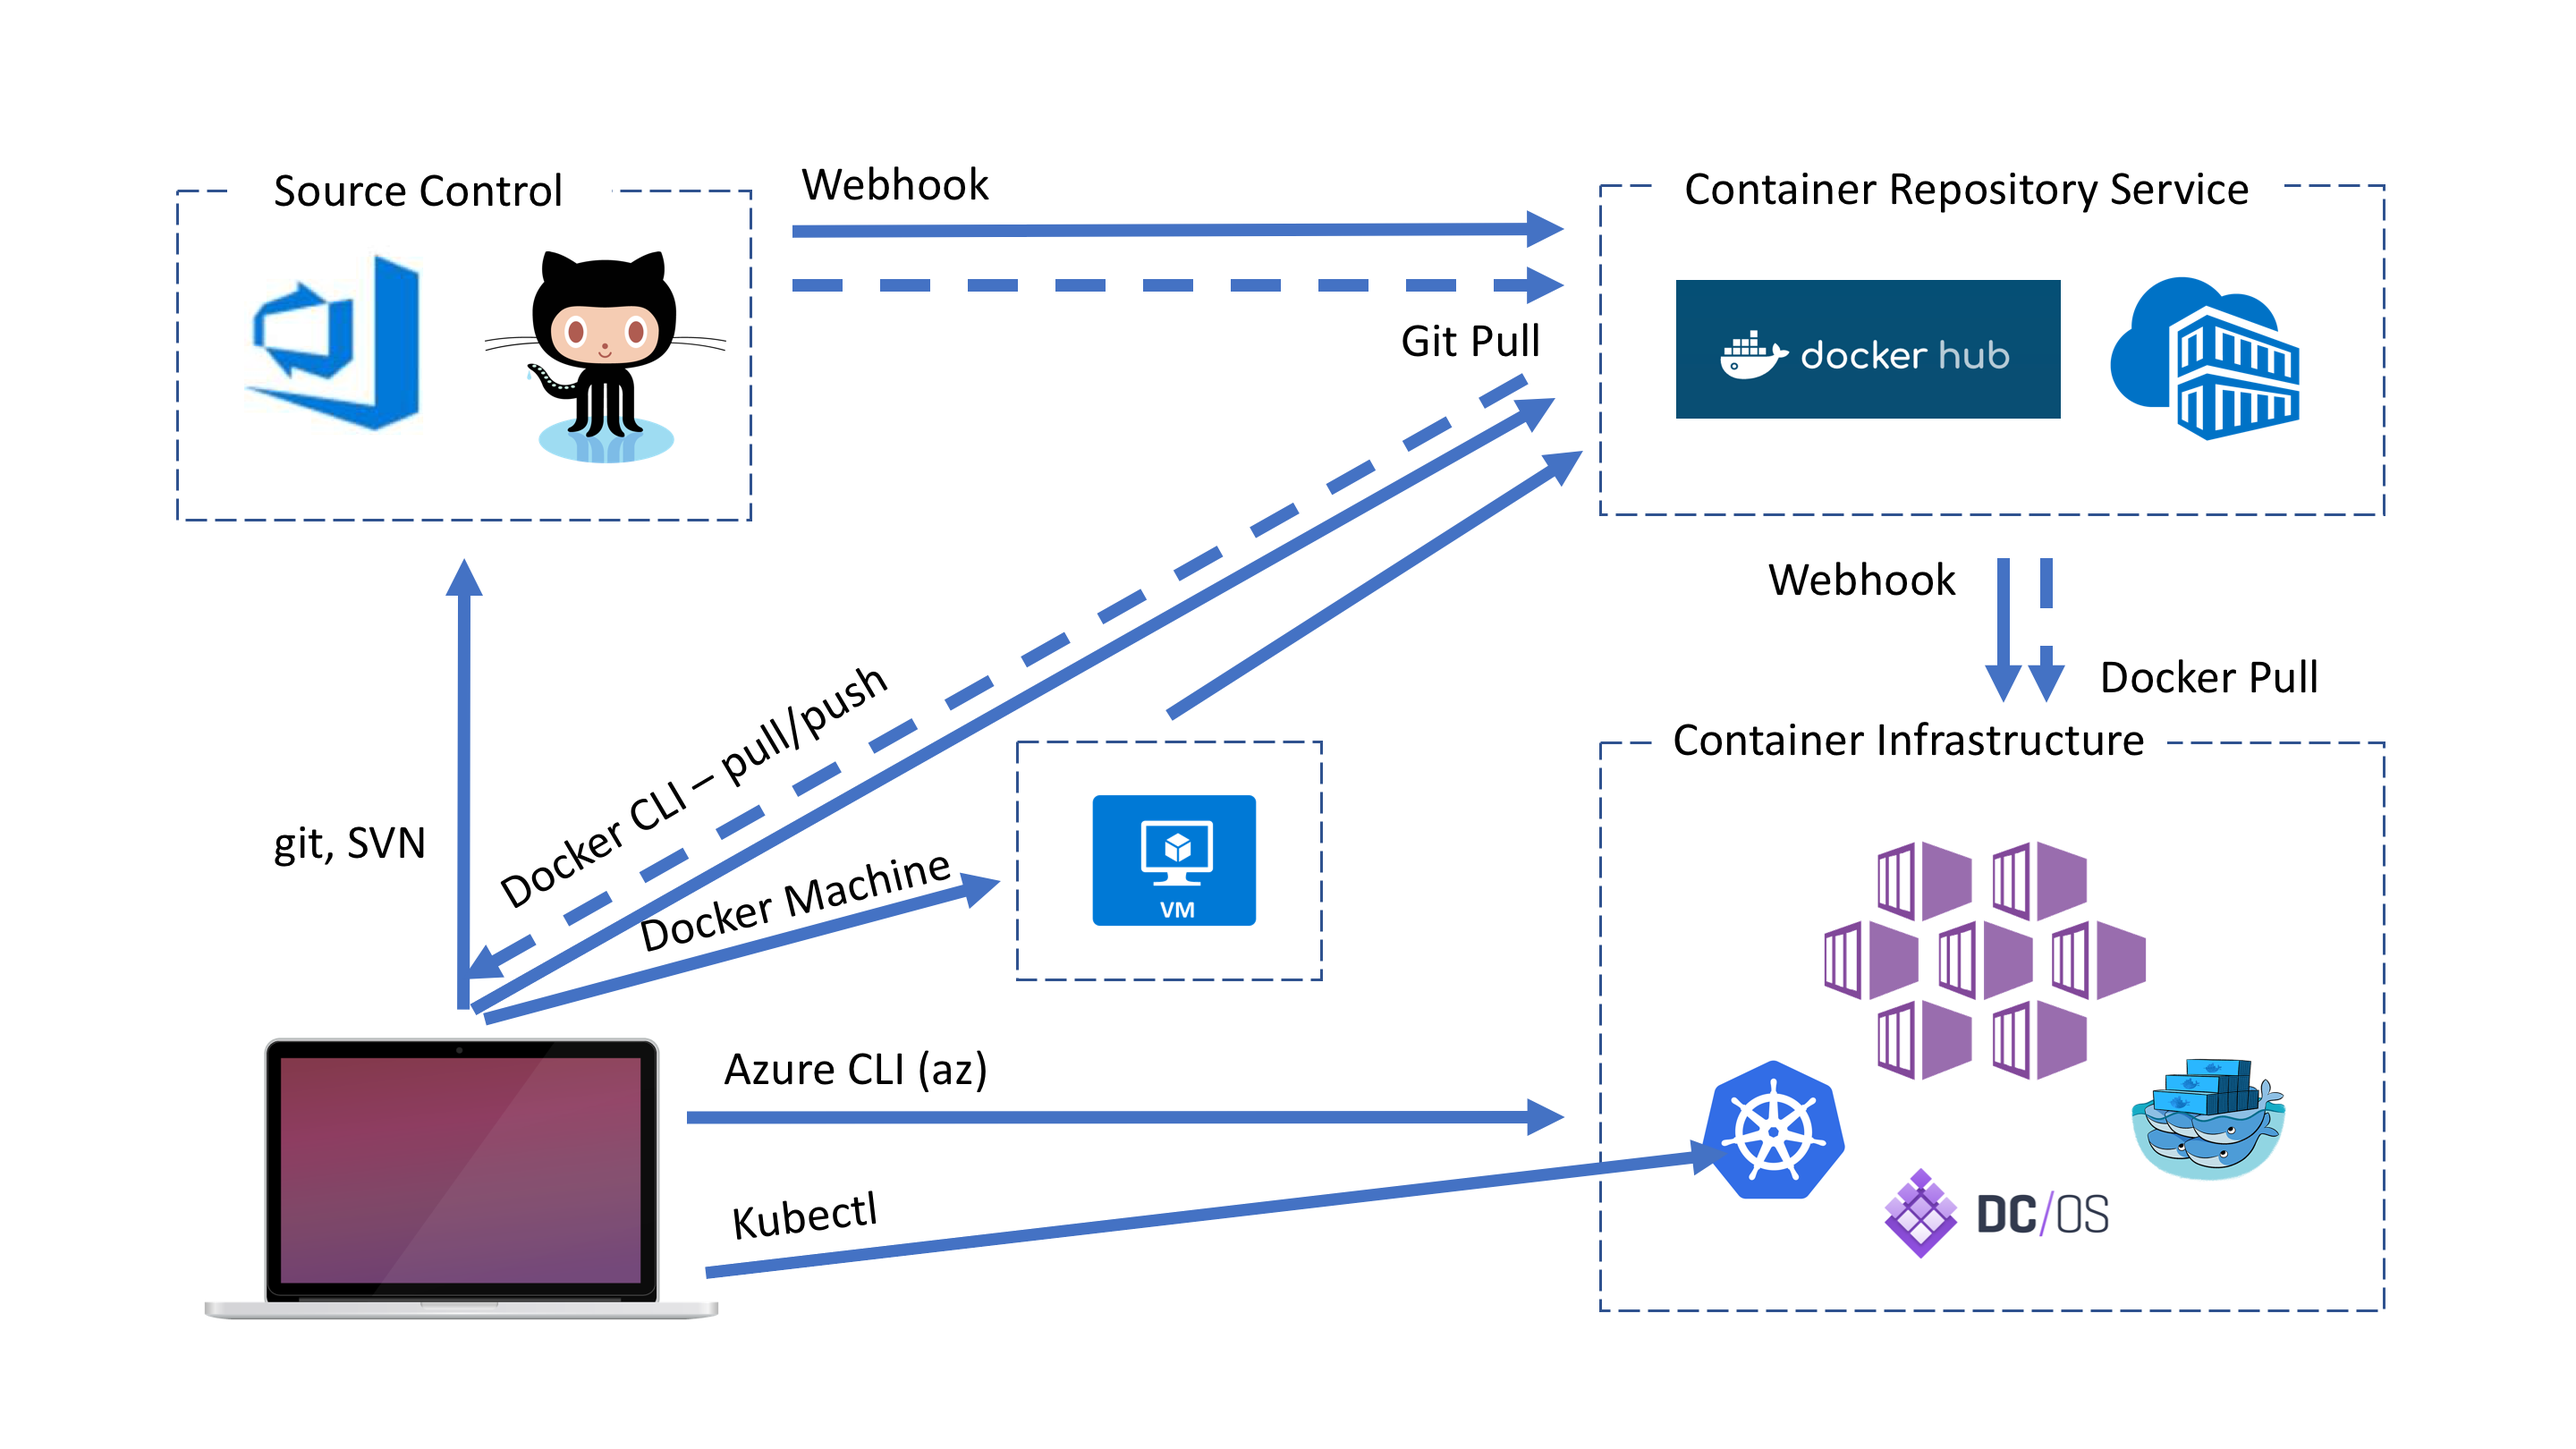
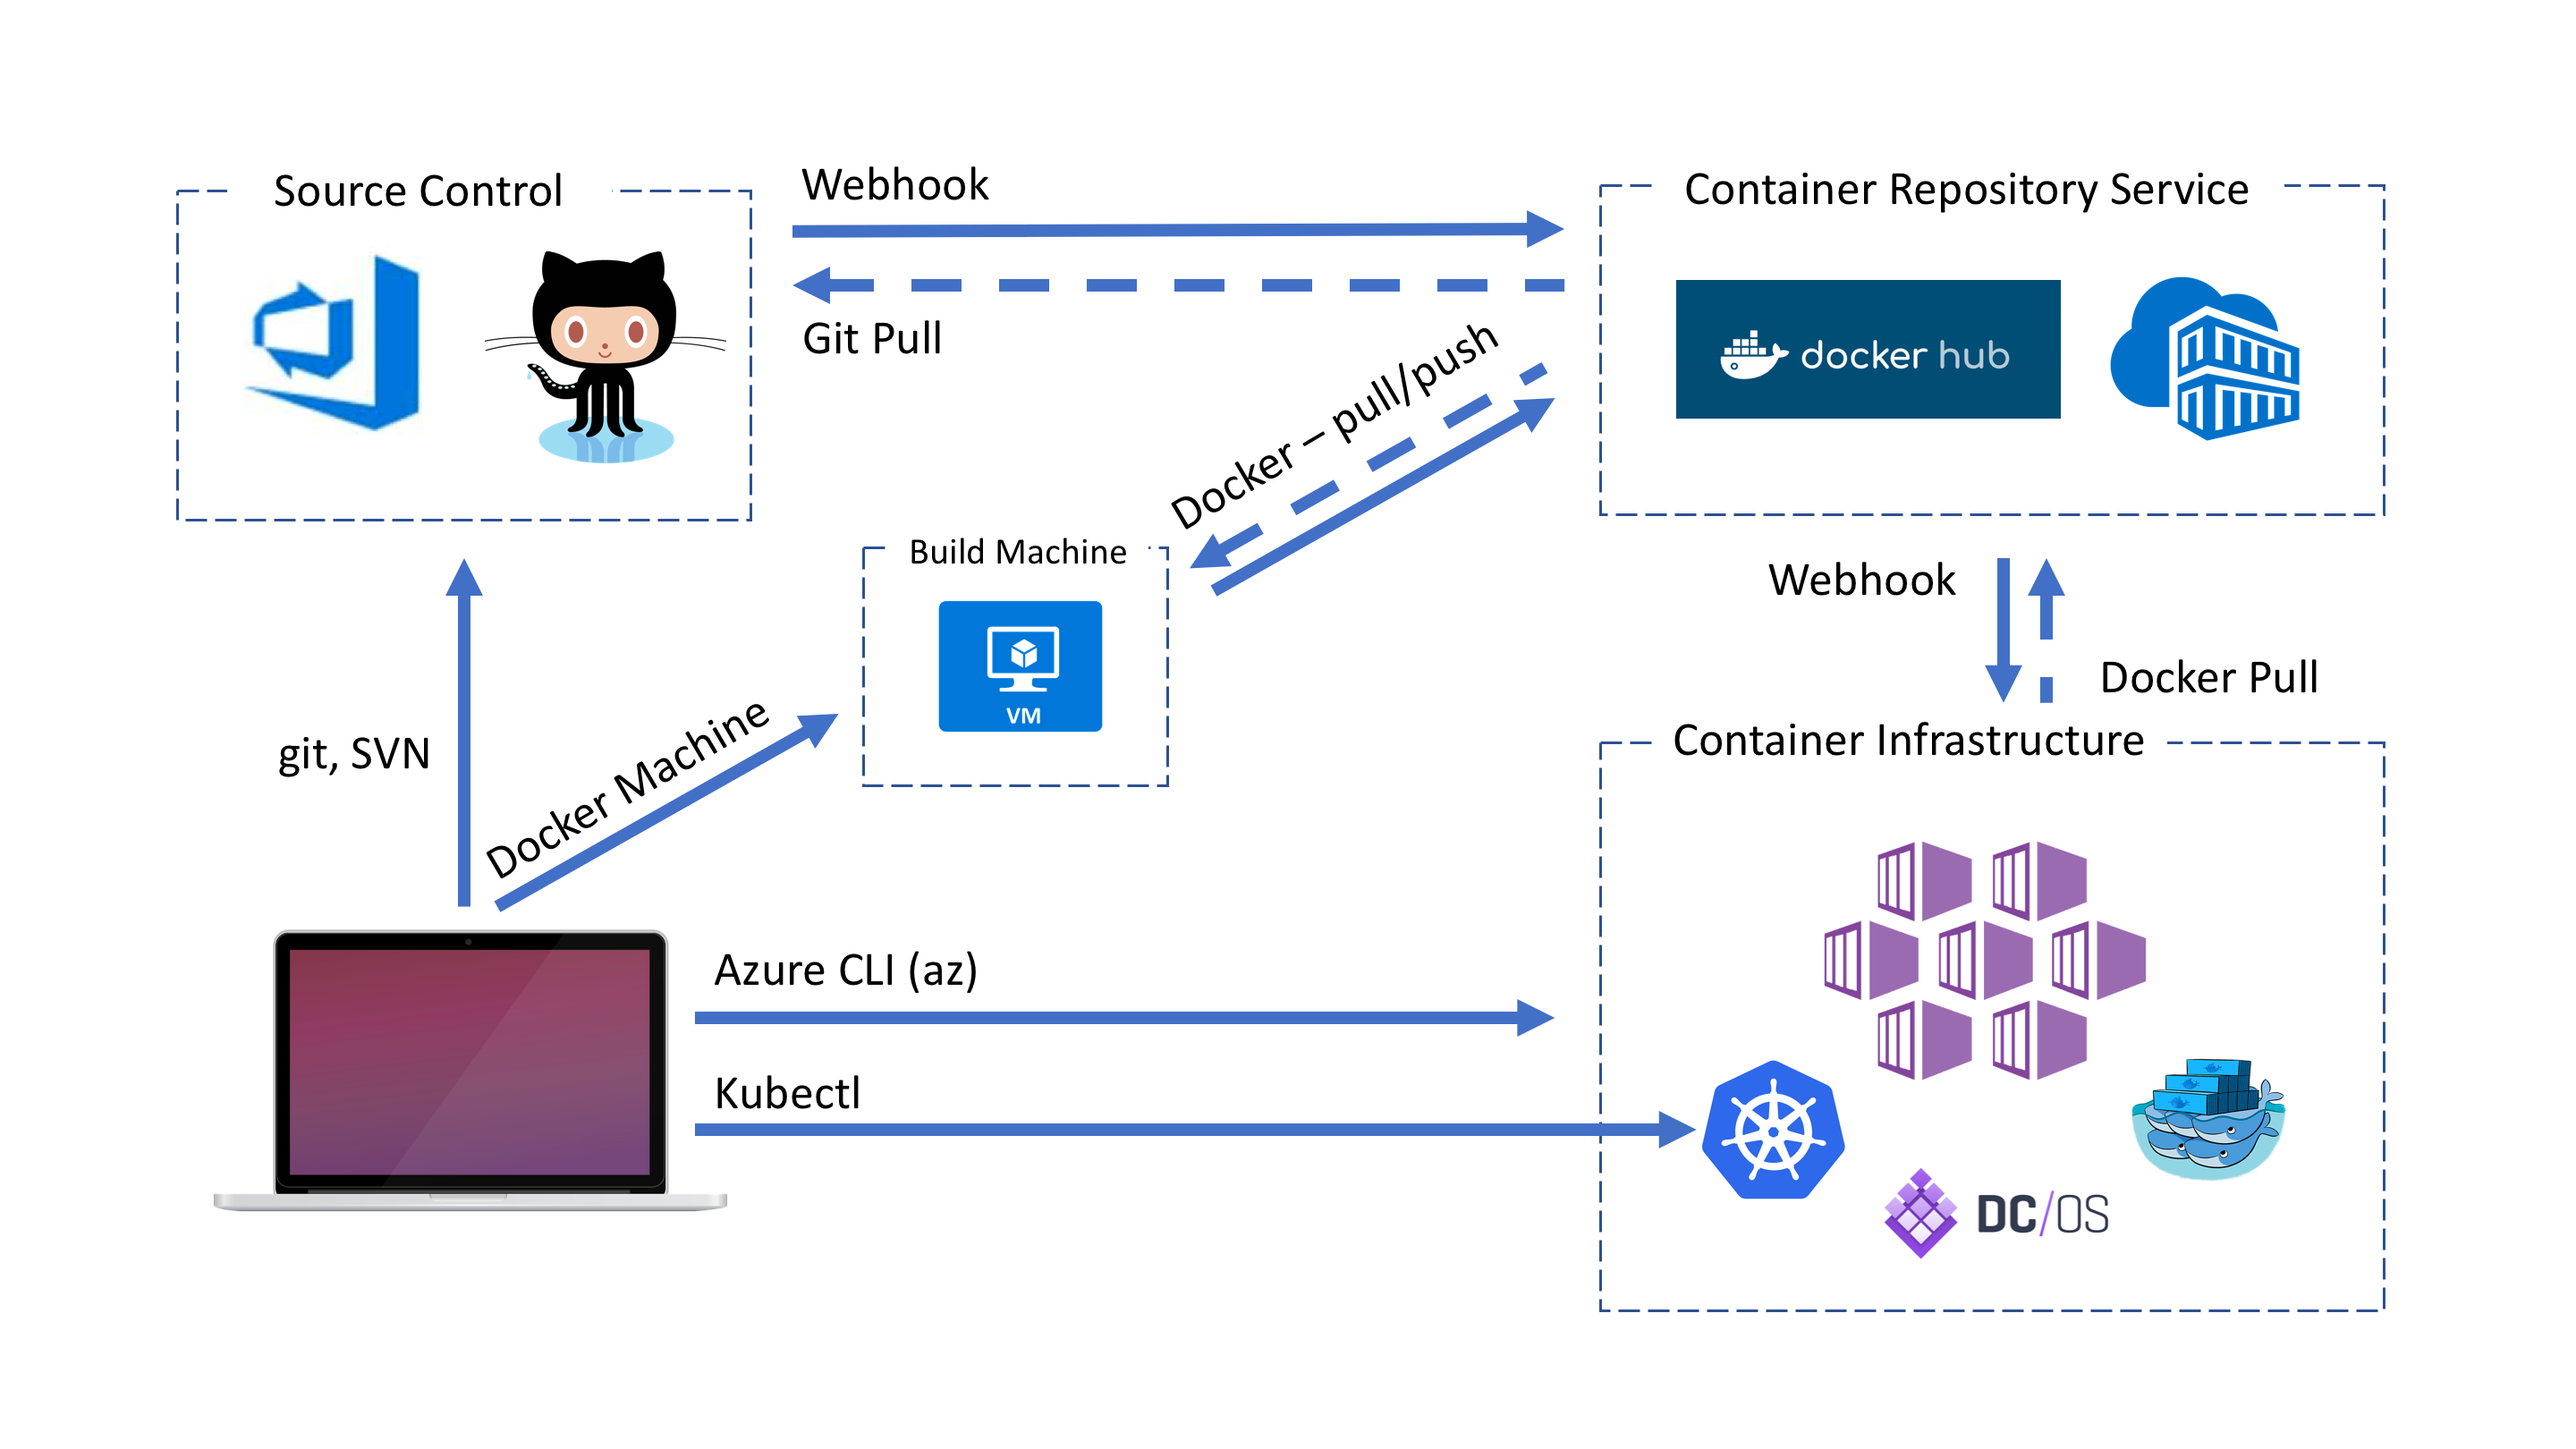
updated graphics and added docker-machine instructions

diff --git a/HOL/01_Setup/README.md b/HOL/01_Setup/README.md
@@ -16,12 +16,16 @@ Configure Computer
 
 ### Create Docker-Machine
 
+We will use the docker-machine command to provision a VM to Azure and install the Docker engine on to it.  This remote Docker host will be used to pull and push container images to a registry and build custom images from.  We do this by configuring our local Docker Environment variablesto "point to" the remote Docker host.  This will allow us to run Docker commands from our local terminal, but the commands will actually execute remotely on the Docker host.
+
+![](../../images/03_c_docker-machine.png)
+
 ```
 # Not needed for cloud shell - you're already logged in
 az login
 
 az group create \
-    --name <resource_group_name>
+    --name docker-machine-<alias>-rg
     --location canadacentral 
 
 az account list
@@ -29,11 +33,13 @@ az account list
 docker-machine create \
     --driver azure \
     --azure-subscription-id <subscription_id> \
-    --azure-image  "Canonical:UbuntuServer:16.04-LTS:latest" \
+    --azure-image  "Canonical:UbuntuServer:14.04.5-LTS:latest" \
     --azure-size "Standard_D2_v2" \
-    --azure-resource-group docker-machine-<alias> \
+    --azure-resource-group docker-machine-<alias>-rg \
     --azure-location canadacentral \
     docker-machine-<alias>
+
+eval $(docker-machine env docker-machine-<alias>)
 ```
 
 ### Validating Tools & Getting Started:
